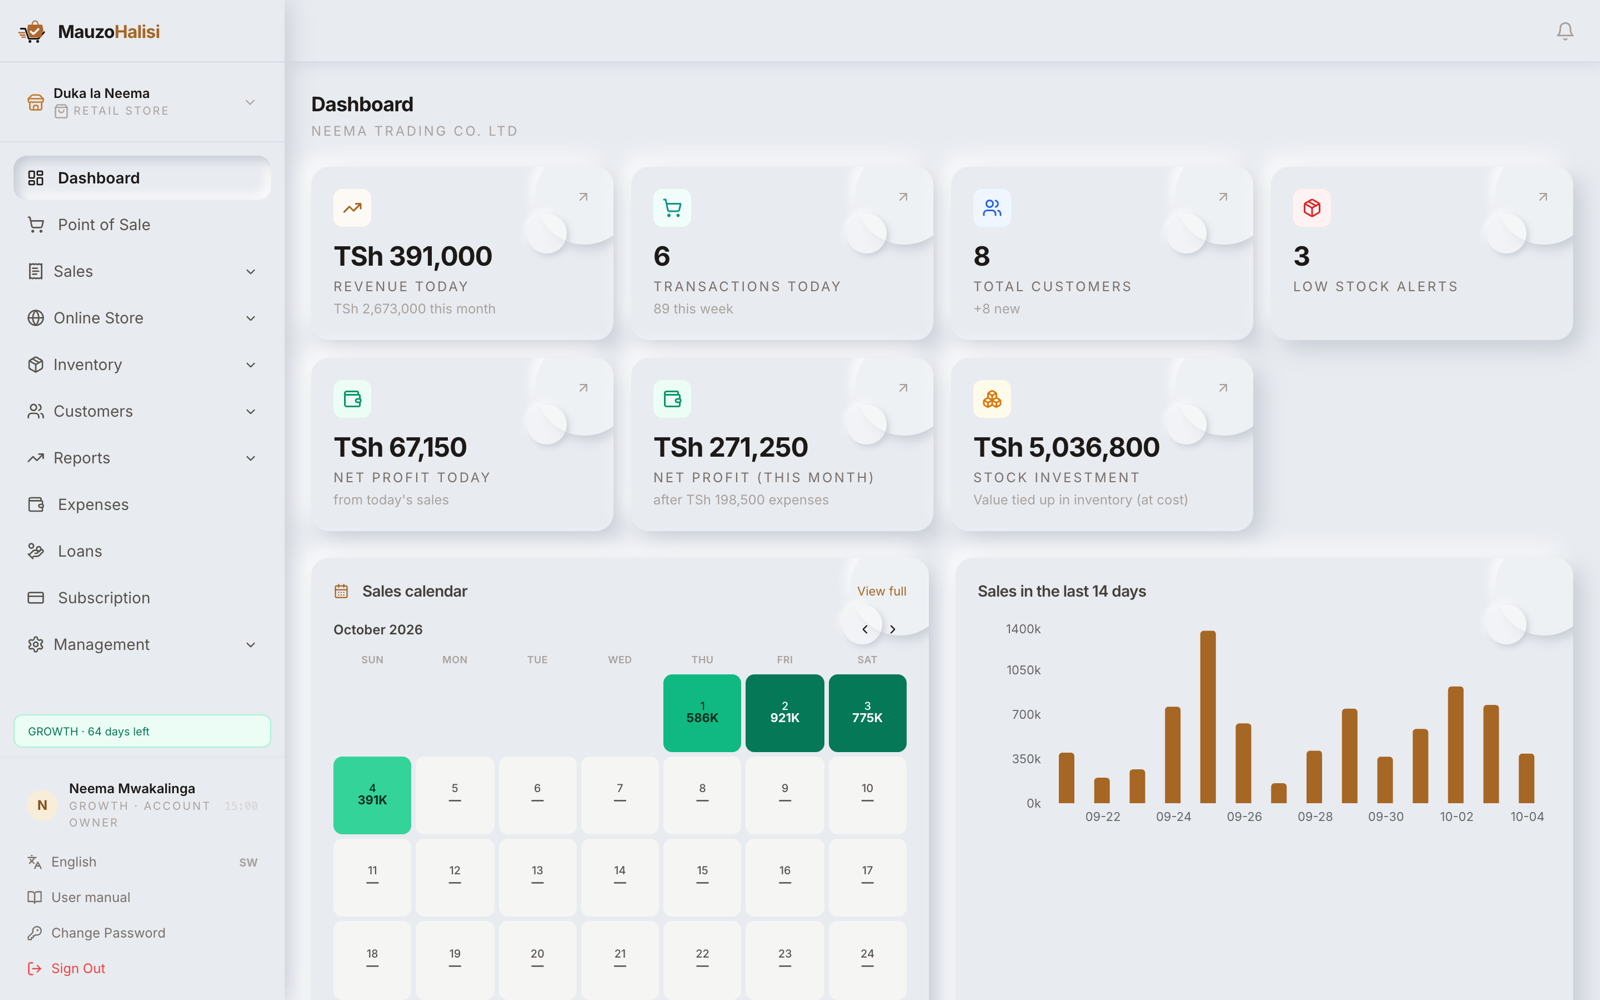
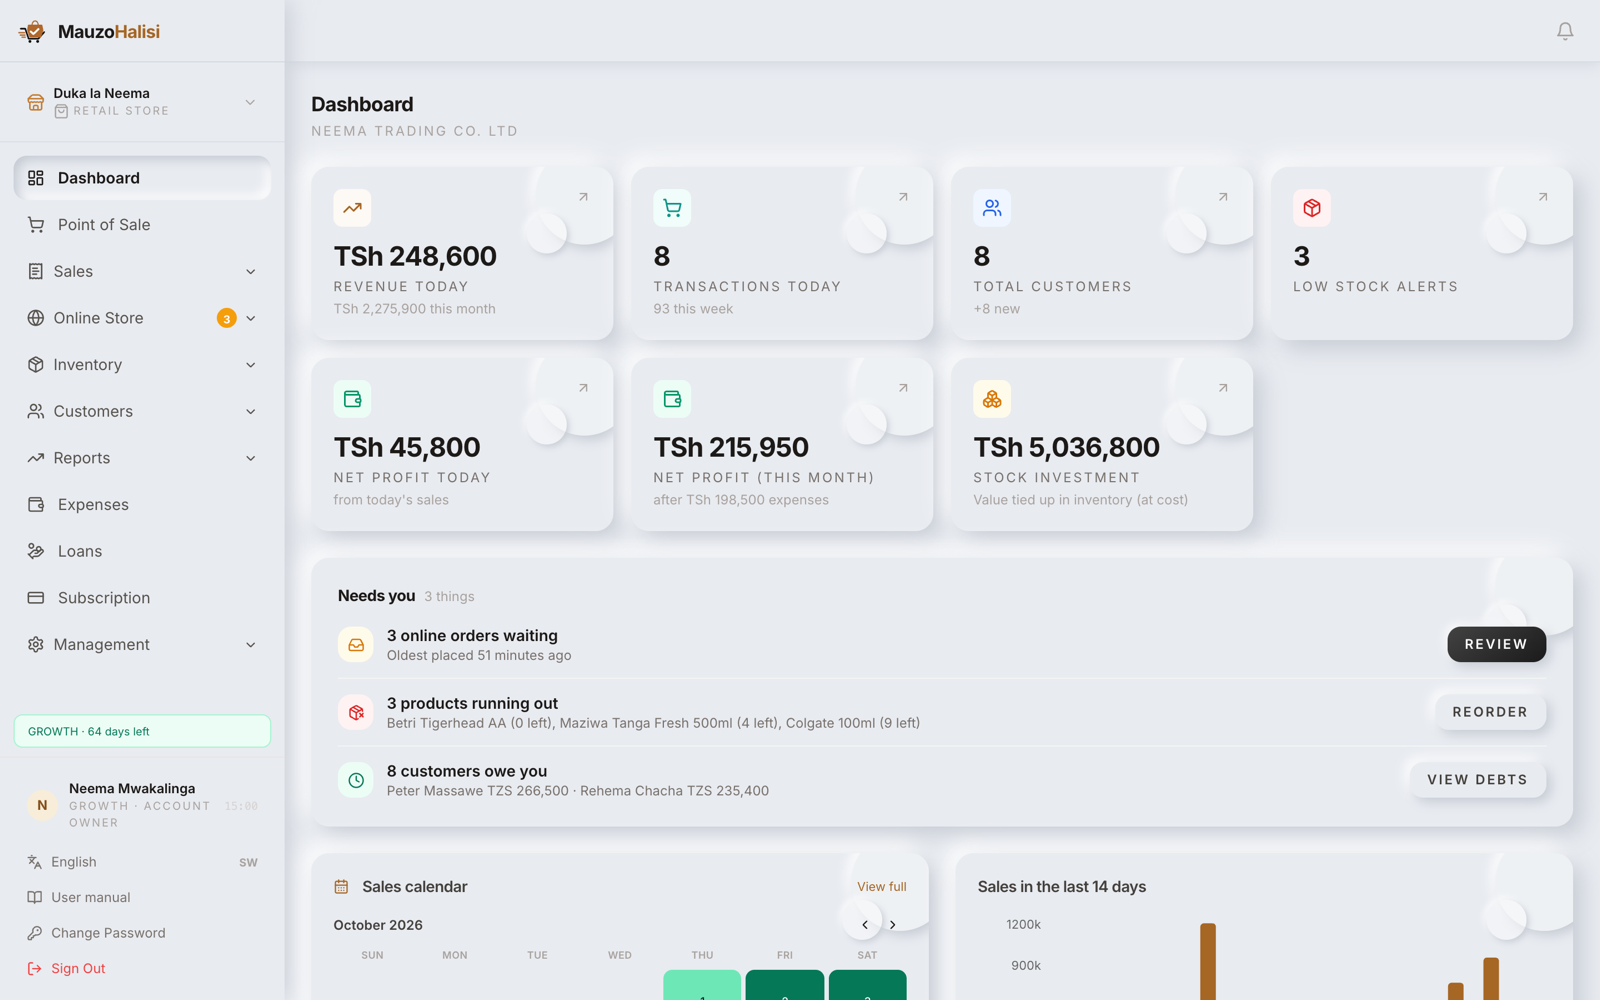
Document "Needs you" in the manual, and seed what it needs
The manual's dashboard picture stopped matching the dashboard the moment the
panel shipped, which is the failure mode the whole screenshot-from-the-real-
app approach exists to avoid. Chapter 9 now describes the panel, the figure
was retaken, and the seed creates the online orders it needs so the next
person to regenerate gets the same picture.

The warning about reminders costing money is in the manual too, in both
languages, because the owner reading it is the one who will press the button.

diff --git a/web/public/manual/index.html b/web/public/manual/index.html
@@ -768,6 +768,31 @@ a{color:var(--ochre-ink)}
       <p lang="sw">Leo kwa mtazamo mmoja: mauzo, faida, risiti, kinachokaribia kuisha. Ifungue kwanza
         kila asubuhi.</p>
 
+      <h3 lang="en">Needs you</h3>
+      <h3 lang="sw">Inakuhitaji</h3>
+      <p lang="en">Under the figures sits a short list of things waiting for a decision, each with
+        the button that settles it: online orders to accept, products to reorder, customers who owe
+        you, and your plan when it is close to ending. A line only appears while there is something
+        to do about it, so an empty list means there is nothing waiting, not that the panel is
+        broken.</p>
+      <p lang="sw">Chini ya takwimu kuna orodha fupi ya mambo yanayosubiri uamuzi, kila moja na
+        kitufe chake: maagizo ya mtandaoni ya kukubali, bidhaa za kuagiza tena, wateja wanaokudai,
+        na mpango wako unapokaribia kuisha. Mstari huonekana tu wakati kuna la kufanya, hivyo
+        orodha tupu maana yake hakuna linalosubiri, si kwamba kimeharibika.</p>
+
+      <div class="note warn">
+        <span class="mark" lang="en">Reminders cost money</span>
+        <span class="mark" lang="sw">Vikumbusho vina gharama</span>
+        <div>
+          <p lang="en" style="margin:0">The debts line can text everyone who owes you. It tells you
+            how many messages that is and waits for a second press, and it will not chase the same
+            customer twice in one week. Only the owner can send them.</p>
+          <p lang="sw" style="margin:0">Mstari wa madeni unaweza kutuma SMS kwa kila anayekudai.
+            Utakuambia ni ujumbe mangapi na utasubiri ubonyeze mara ya pili, na hautamfuatilia mteja
+            yule yule mara mbili ndani ya wiki moja. Mmiliki pekee ndiye anaweza kutuma.</p>
+        </div>
+      </div>
+
       <figure>
         <img src="shots/01-dashboard.png" alt="" loading="lazy">
         <figcaption>

diff --git a/backend/prisma/seed-manual.ts b/backend/prisma/seed-manual.ts
@@ -401,6 +401,26 @@ async function main() {
     });
   }
 
+  // ── Online orders, so the dashboard's "Needs you" panel has a row ────────
+  await prisma.shop.update({
+    where: { id: duka.id },
+    data: { storefrontEnabled: true, slug: 'duka-la-neema' },
+  });
+  const waiting: [string, number][] = [
+    ['Asha Mwinyi', 12], ['John Mushi', 34], ['Neema Paul', 51],
+  ];
+  for (const [buyerName, minutesAgo] of waiting) {
+    await prisma.order.create({
+      data: {
+        shopId: duka.id, orderNo: 'WEB-' + between(100, 999) + '-' + minutesAgo,
+        status: 'PENDING', buyerName, buyerPhone: fakePhone(), phoneVerified: true,
+        subtotal: 12_000 + minutesAgo * 100, total: 12_000 + minutesAgo * 100,
+        expiresAt: new Date(Date.now() + 86_400_000),
+        createdAt: new Date(Date.now() - minutesAgo * 60_000),
+      },
+    });
+  }
+
   // ── Reports, so the schedule page shows a configured state ────────────────
   await prisma.reportPreference.create({
     data: {
